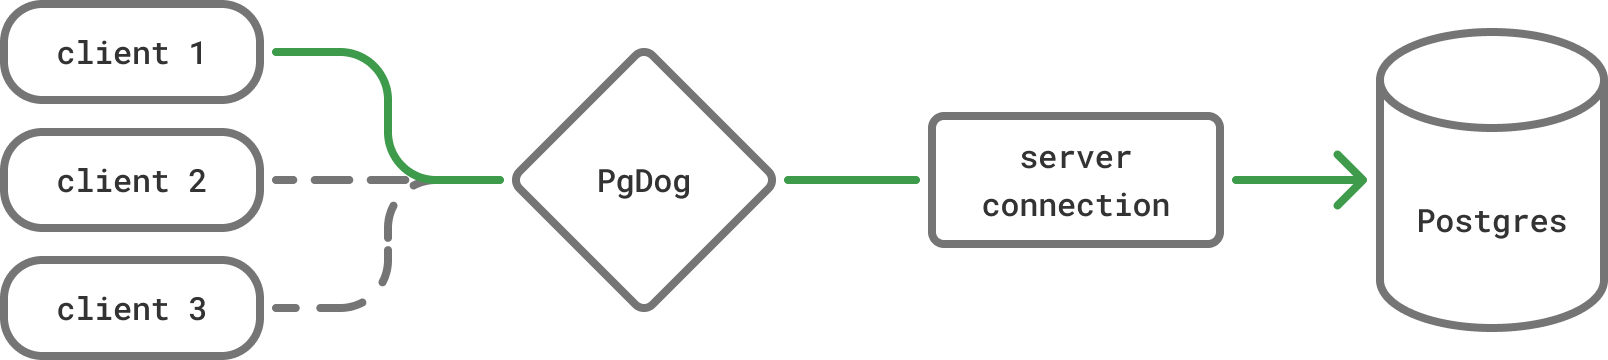
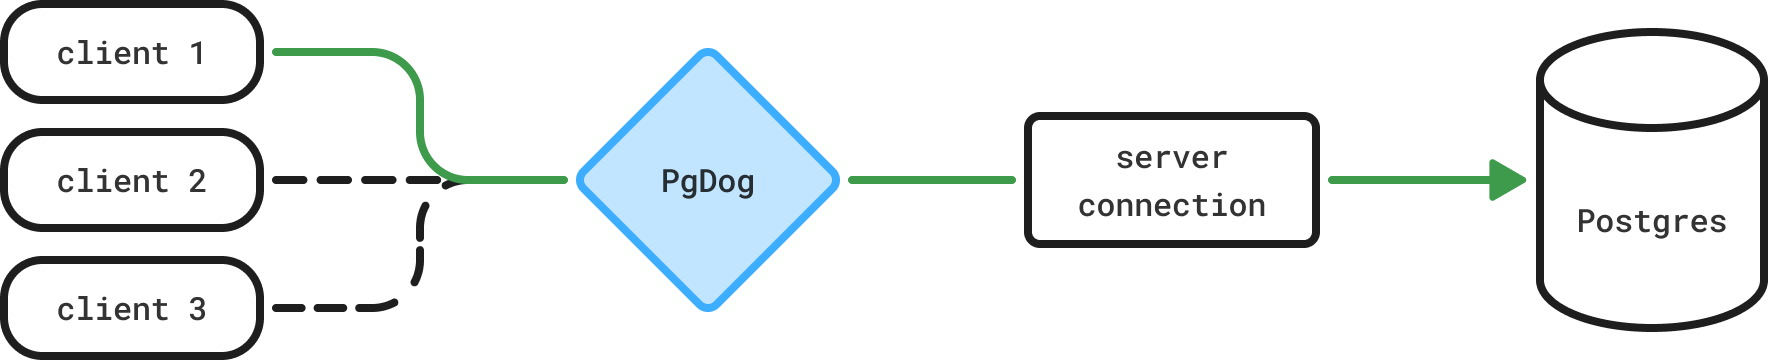
moving things

diff --git a/docs/features/connection-pooler/pub_sub.md b/docs/features/connection-pooler/pub_sub.md
@@ -1,0 +1,70 @@
+---
+icon: material/publish
+---
+# Pub/sub
+
+Postgres has native support for pub/sub through [`LISTEN`](https://www.postgresql.org/docs/current/sql-listen.html) and [`NOTIFY`](https://www.postgresql.org/docs/current/sql-notify.html) commands. If you're not familiar, pub/sub stands for publish/subscribe and allows you to send and listen for arbitrary messages, in real time, by using Postgres as the message broker.
+
+Historically, this feature was only available to clients which connect to Postgres directly. PgDog supports this in [transaction mode](transaction-mode.md), removing this limitation. You can use `LISTEN` and `NOTIFY`, as if you're connected directly to Postgres, with thousands of clients.
+
+## How it works
+
+Pub/sub support is **disabled** by default and can be enabled by configuring the asynchronous message channel size in [`pgdog.toml`](../configuration/pgdog.toml/general.md):
+
+=== "pgdog.toml"
+    ```toml
+    [general]
+    pub_sub_channel_size = 4096
+    ```
+=== "Helm chart"
+    ```yaml
+    pubSubChannelSize: 4096
+    ```
+
+Clients can then start using Postgres `LISTEN`/`NOTIFY` commands like normal. PgDog will intercept and process them internally. How each command is handled is described below.
+
+
+<center>
+  <img src="/images/pub_sub.png" class="theme-aware-image" width="90%" height="auto" alt="Pub/sub">
+  <p>Pub/sub architecture</p>
+</center>
+
+
+### LISTEN
+
+When PgDog receives a `LISTEN <channel>` command, it will register itself with Postgres on the requested channel, on the client's behalf. It does that over a dedicated server connection. If multiple clients request to listen on the same channel, PgDog will register itself only once.
+
+### NOTIFY
+
+When PgDog receives a `NOTIFY <channel>, '<payload>'` command, it will place it into an asynchronous queue and forward it to Postgres over a dedicated connection. This ensures that multiple instances of PgDog all receive the notification.
+
+Once Postgres sends the notification back, PgDog will fan it out to all registered clients. If you have thousands of listeners, sending them a message is cheap since it's handled by a [Tokio](https://docs.rs/tokio/latest/tokio/sync/broadcast/index.html) `broadcast` channel and not by Postgres.
+
+#### Transactions
+
+PgDog respects transactional guarantees offered by Postgres for notifications. If a notification is sent inside a transaction, it will be buffered until the transaction is committed and, only then, sent to Postgres.
+
+If the transaction is rolled back or has an error, buffered notifications are dropped.
+
+!!! info "NOTIFY performance regression"
+    This feature protects clients from sending `NOTIFY` commands to Postgres inside transactions, which has a [known](https://news.ycombinator.com/item?id=44490510) performance problem.
+
+### UNLISTEN
+
+`UNLISTEN <channel>` removes the client from the list of clients interested in messages sent to that channel. It won't receive any more notifications, but PgDog continues to listen for them until all clients have unsubscribed or disconnected.
+
+Once that happens, PgDog will send the `UNLISTEN <channel>` command to Postgres automatically.
+
+### Trade-offs
+
+Since PgDog handles all commands, clients will get an immediate acknowledgement as soon as it processes a command. However, it doesn't mean that the command is immediately sent to Postgres. If the is a large backlog in the background queue, it could take a few milliseconds for a command to be forwarded to the server.
+
+The size of the backlog is controlled with the `pub_sub_channel_size` setting. Once the queue is full, clients will begin to wait until the commands are processed.
+
+#### Delivery guarantees
+
+`LISTEN` and `UNLISTEN` messages are guaranteed to be delivered. A client will, eventually, start receiving notifications on a channel. If there are a lot of requests in the queue, this may take a little while (a few milliseconds, typically).
+
+A `NOTIFY` message can be lost if the dedicated connection to Postgres is broken. PgDog will not attempt re-delivery for a message on connection error. This is done to avoid duplicate notifications and follows the "at most once" guarantee principle.
+
+If this happens, PgDog will attempt to re-establish the connection immediately. All subsequent messages will be delivered over the new connection.

diff --git a/docs/features/connection-pooler/index.md b/docs/features/connection-pooler/index.md
@@ -1,3 +1,7 @@
+---
+icon: material/transit-connection-variant
+---
+
 # Connection pooler
 
 PgDog is first and foremost a connection pooler. It can proxy thousands (even hundreds of thousands) of application connections with only a handful of actual PostgreSQL connections. This feature is essential to large and busy databases. Without connection pooling, it would be very difficult to use Postgres in production.
@@ -6,31 +10,31 @@ PgDog is first and foremost a connection pooler. It can proxy thousands (even hu
 
 The Postgres ecosystem has many other connection poolers, e.g., the ubiquitous PgBouncer, RDS Proxy, and others. So, why build PgDog and what makes it unique?
 
-### Session state
+### Connection state
 
-PgDog is able to handle `SET` commands and preserves the connection state in [transaction mode](../transaction-mode.md). For example, this command will work without polluting connection state for other clients:
+PgDog can handle `SET` commands and preserve connection state in [transaction mode](../transaction-mode.md). For example, this command works without polluting the connection state for other clients:
 
 ```postgresql
 SET application_name TO 'sidekiq';
 ```
 
-PgDog will preserve this and other session parameters, in transaction mode, allowing multiple applications to use the same connection pool. This increases pool efficiency, at the small cost of running a few extra `SET` commands.
+PgDog preserves this and other session parameters in transaction mode, allowing multiple applications to use the same connection pool. This increases pool efficiency at the small cost of running a few extra `SET` commands.
 
-Additionally, it's common to use GUC settings to temporarily change the connection state, e.g., to work with RLS (row-level security) or to execute long queries without triggering a statement timeout. Applications using PgBouncer would need to bypass it and connect to the database directly. With PgDog, it just works.
+Additionally, it's common to use GUC settings to temporarily change connection state, e.g., to work with RLS (row-level security) or to execute long queries without triggering a statement timeout. Applications using PgBouncer need to bypass it and connect to the database directly. With PgDog, it just works.
 
 !!! note "Connection pinning"
-    Unlike RDS Proxy, PgDog doesn't pin sessions nor have any query length limit that would trigger that behavior.
+    Unlike RDS Proxy, PgDog doesn't pin sessions or have a query length limit that would trigger that behavior.
 
 ### Multithreading
 
 PgDog is multithreaded and asynchronous. Under the hood, we use the popular [Tokio](https://tokio.rs) Rust async runtime. This allows PgDog to serve more queries per second on machines with multiple CPUs.
 
-While it's possible to achieve a similar effect with PgBouncer in port re-use mode (i.e., `so_reuseport`), what sets PgDog apart is its ability to re-use the _same_ connection pool to serve more clients inside the same process. This improves pool utilization and allows PgDog to keep the number of connections to PostgreSQL low, while serving more queries per second than PgBouncer.
+While it's possible to achieve a similar effect with PgBouncer in port reuse mode (i.e., `so_reuseport`), what sets PgDog apart is its ability to reuse the _same_ connection pool to serve more clients inside the same process. This improves pool utilization and allows PgDog to keep the number of connections to PostgreSQL low while serving more queries per second than PgBouncer.
 
-Additionally, it's easier to manage from an infrastructure/DevOps perspective, since a single multithreaded process will emit one set of [metrics](../metrics.md).
+Additionally, PgDog is easier to manage from an infrastructure/DevOps perspective, since a single multithreaded process will emit only one set of [metrics](../metrics.md).
 
 ### Pub/sub
 
-If your application is using `LISTEN`/`NOTIFY`, e.g. [DBOS](https://dbos.dev), or some other job queue, it would traditionally need to connect to Postgres directly. PgDog implements its own pub/sub queue and takes care of sending and receiving messages through `LISTEN`/`NOTIFY` by clients connected to it.
+If your application uses `LISTEN`/`NOTIFY`, e.g., [DBOS](https://dbos.dev) or another job queue, it would traditionally need to connect to Postgres directly. PgDog implements its own pub/sub queue and sends and receives `LISTEN`/`NOTIFY` messages for clients connected to it.
 
 This allows applications to use `LISTEN`/`NOTIFY` in [transaction mode](../pub_sub.md), just like any other Postgres feature.